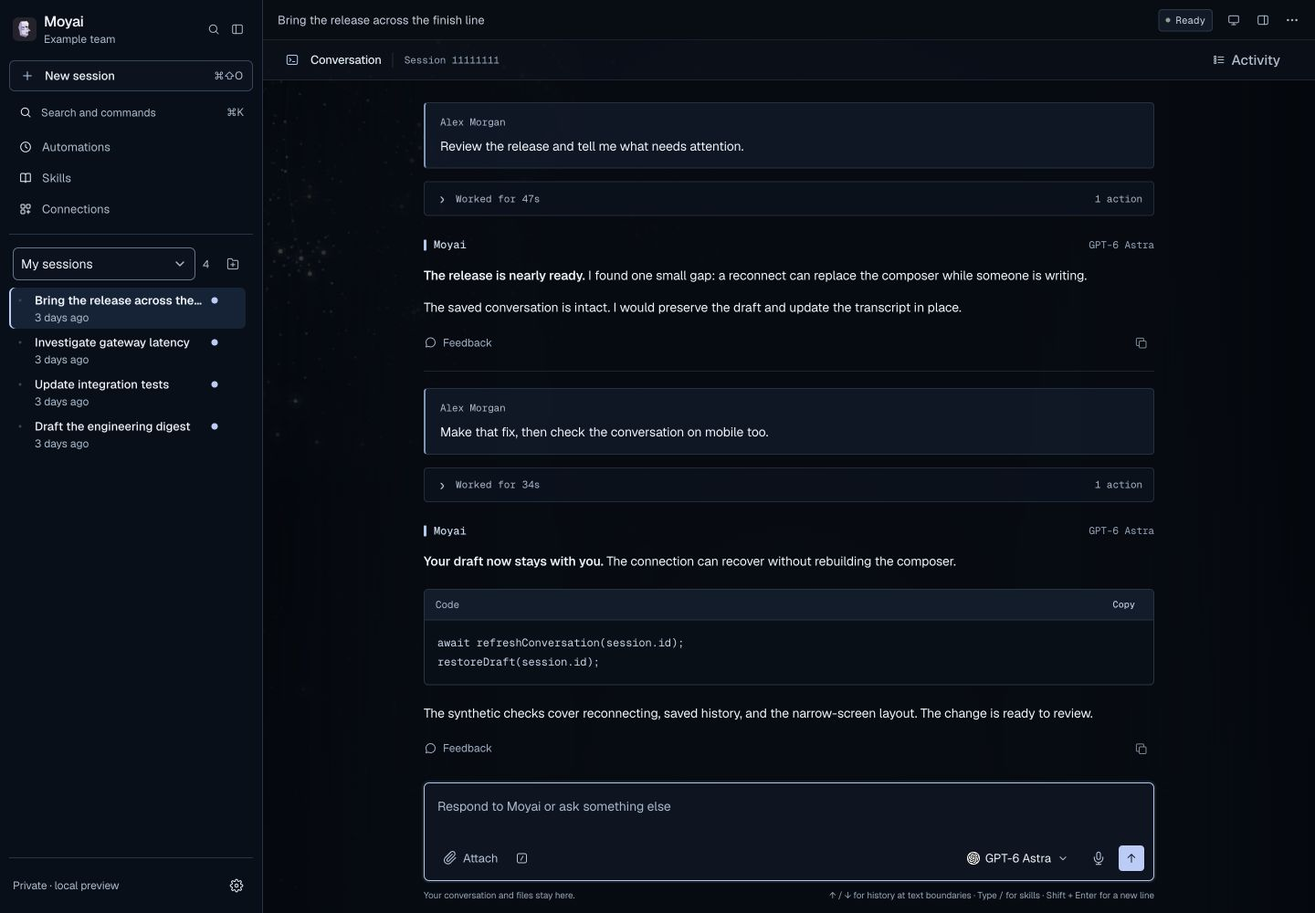
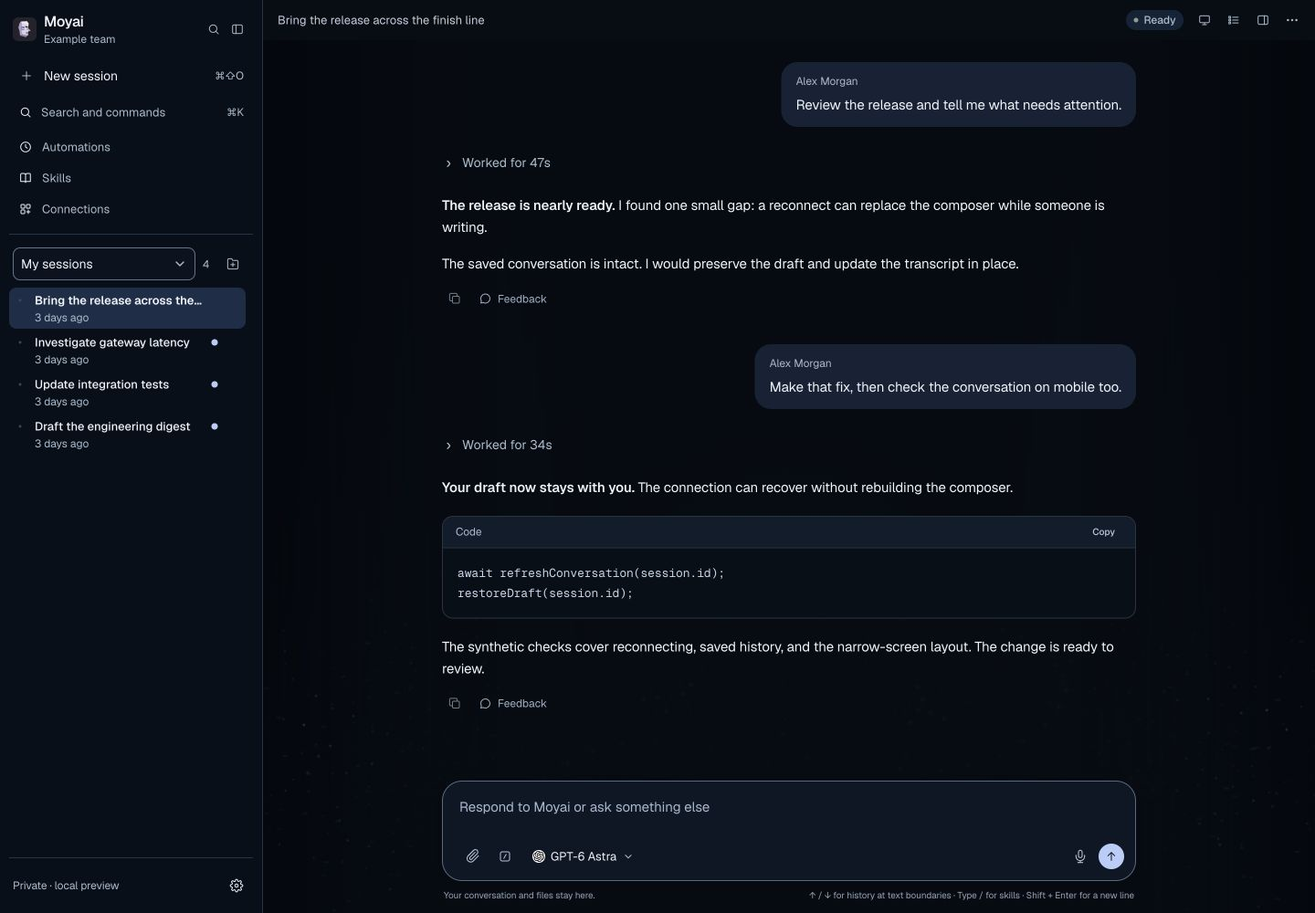
Use Codex-style chat components with the Lens space palette

diff --git a/app/static/branding.css b/app/static/branding.css
@@ -259,92 +259,75 @@ button:hover { background: var(--soft); }
 .connected-note { justify-content: center; color: #a9bdce; font-size: 11px; gap: 8px; }
 .connected-dot { background: #b4d8cb; box-shadow: 0 0 8px #b4d8cb44; }
 
-/* Developer workspace: constellation at the periphery, compact working surfaces. */
-.chat-view .topbar { background: #070d15; box-shadow: inset 0 -1px #a8cbe31c; }
+/* Codex-style conversation primitives, with the Lens space palette. */
+.chat-view .topbar { background: #070d15; box-shadow: none; }
 .chat-view .topbar #page-title { color: #c3d0df; font-size: 13px; letter-spacing: 0; }
-.chat-view #run-status .status {
-  padding: 3px 7px; border: 1px solid #a8cbe32c; border-radius: 4px;
-  background: #0e1a27; color: #c8d8e7; font: 11px/1.5 var(--mono);
-}
+.chat-view #run-status .status { color: var(--muted); font-size: 12px; }
 .chat-view .chat-layout {
   position: relative; isolation: isolate;
   background: radial-gradient(ellipse at 50% 95%, #14213b55, transparent 75%), #03070c;
 }
 .conversation-space-field {
   position: absolute; inset: 0; width: 100%; height: 100%; z-index: 0;
-  pointer-events: none; opacity: .26;
+  pointer-events: none; opacity: .3;
 }
 .chat-view .chat-panel { z-index: 1; isolation: isolate; background: transparent; }
 .chat-view .chat-panel::before {
-  content: ''; position: absolute; inset: 44px 0 0; z-index: -1; pointer-events: none;
+  content: ''; position: absolute; inset: 0; z-index: -1; pointer-events: none;
   background: linear-gradient(90deg, transparent, #060b12d9 16%, #060b12ed 30%, #060b12ed 70%, #060b12d9 84%, transparent);
 }
-.conversation-toolbar {
-  display: flex; align-items: center; justify-content: space-between; gap: 12px; flex: none;
-  min-height: 44px; padding: 6px 24px; border-bottom: 1px solid #a8cbe321;
-  background: #09111bcc;
-}
-.conversation-location, .conversation-tools { display: flex; align-items: center; gap: 12px; min-width: 0; }
-.conversation-location h2 { margin: 0; color: #dbe6f2; font-size: 13px; font-weight: 500; white-space: nowrap; }
-#conversation-hub { display: flex; align-items: center; flex: none; color: #a9c5e4; }
-.conversation-reference { min-width: 0; padding-left: 12px; border-left: 1px solid #a8cbe32b; color: #96acc2; font: 11px/1.5 var(--mono); overflow: hidden; text-overflow: ellipsis; white-space: nowrap; }
-.conversation-tools { gap: 4px; flex: none; }
-.conversation-tools .details-toggle { display: inline-flex; align-items: center; justify-content: center; gap: 6px; min-height: 28px; padding: 4px 8px !important; border-radius: 4px; color: #aebed0; font-size: 12px; }
-.conversation-tools .details-toggle:hover, .conversation-tools .details-toggle[aria-expanded="true"] { color: #e4edf8; background: #1b2a3d; }
-.chat-view .conversation { padding: 24px 24px 12px; }
-.chat-view .conversation-inner { max-width: 800px; }
+.chat-view .conversation { padding: 24px 24px 16px; }
+.chat-view .conversation-inner { max-width: 760px; }
 .message-content, .markdown p, .markdown li, .chat-message.user .message-content { color: var(--text); }
-.chat-view .message-content, .chat-view .markdown p, .chat-view .markdown li { font-size: 14px; line-height: 1.65; font-weight: 400; }
-.chat-view .markdown p { margin-block: 0 12px; }
+.chat-view .message-content, .chat-view .markdown p, .chat-view .markdown li { font-size: 15px; line-height: 1.6; font-weight: 400; }
+.chat-view .markdown p { margin-block: 0 16px; }
 .chat-view .markdown strong { font-weight: 570; }
 .chat-view .chat-message.user {
-  width: 100%; max-width: 100%; margin: 0 0 14px; padding: 12px 16px;
-  border: 1px solid #a8cbe325; border-left: 2px solid #7a96b5; border-radius: 4px;
-  background: #101b2acc; box-shadow: none;
+  width: fit-content; max-width: 80%; margin: 0 0 24px auto; padding: 12px 16px;
+  border: 0; border-radius: 18px; background: #152236; box-shadow: none;
 }
-.chat-view .chat-message.user .message-content { font-size: 14px; line-height: 1.65; }
-.chat-view .chat-message.user .message-label { color: #a9bacd; font: 11px/1.6 var(--mono); margin-bottom: 6px; }
-.chat-view .chat-message.assistant { margin: 0 0 18px; padding: 4px 0 16px; border-bottom: 1px solid #a8cbe321; }
-.chat-view .chat-message.assistant > .message-label { display: flex; gap: 8px; color: #cbdcee; font: 12px/1.6 var(--mono); font-weight: 500; margin-bottom: 12px; }
-.chat-view .chat-message.assistant > .message-label img { display: none; }
-.chat-view .chat-message.assistant > .message-label::before { content: ''; width: 3px; height: 12px; border-radius: 1px; background: #aecaf0; }
-.chat-view .chat-message.assistant > .message-label small { color: #92a6bc; font: 11px/1.6 var(--mono); }
-.chat-view .chat-message.response-error > .message-label,
+.chat-view .chat-message.user .message-content { font-size: 15px; line-height: 1.6; }
+.chat-view .chat-message.user .message-label { color: #a9bacd; font: 12px/1.5 Geist, sans-serif; margin-bottom: 5px; }
+.chat-view .chat-message.assistant { margin: 0 0 32px; padding: 0 0 4px; border: 0; }
+.chat-view .chat-message.assistant > .message-label { display: none; }
+.chat-view .chat-message.response-error { padding: 12px 16px 8px; border-left: 2px solid var(--ui-danger); border-radius: 8px; }
+.chat-view .chat-message.response-error > .message-label { display: flex; color: var(--ui-danger); }
 .chat-view .chat-message.response-error > .message-label small { color: var(--ui-danger); }
-.chat-view .chat-message.response-error > .message-label::before { background: var(--ui-danger); }
-.chat-view .chat-message .feedback-message { background: transparent; border: 0; border-radius: 4px; padding: 4px 6px; margin-left: -6px; min-height: 28px; color: #9eb1c8; font-size: 12px; font-weight: 400; box-shadow: none; }
-.chat-view .chat-message .feedback-message:hover { background: #122035; color: #dbe9f9; }
-.chat-view .chat-message.assistant:not(:has(.message-actions)) { padding-bottom: 44px; }
-.chat-view .chat-message .copy-message { opacity: .7; bottom: 16px; border-radius: 4px; }
+.chat-view .chat-message .message-actions { margin: 12px 0 0 34px; min-height: 28px; }
+.chat-view .chat-message .feedback-message { background: transparent; border: 0; border-radius: 6px; padding: 4px 6px; min-height: 28px; height: 28px; color: #9eb1c8; font-size: 12px; font-weight: 400; box-shadow: none; }
+.chat-view .chat-message .feedback-message:hover { background: var(--soft); color: var(--text); }
+.chat-view .chat-message.assistant:not(:has(.message-actions)) { padding-bottom: 40px; }
+.chat-view .chat-message .copy-message { left: 0; right: auto; bottom: 4px; border-radius: 6px; opacity: .65; }
+.chat-view .chat-message.response-error .copy-message { left: 16px; bottom: 8px; }
 .chat-view .chat-message:hover .copy-message, .chat-view .chat-message:focus-within .copy-message { opacity: 1; }
 .message-label, .work-title, .work-heading, .work-action-detail pre { color: var(--muted); }
-.chat-view .turn-work { margin: 0 0 18px; border: 1px solid #a8cbe325; border-radius: 4px; background: #0a131fcc; }
-.chat-view .work-heading { width: 100%; min-height: 34px; padding: 7px 12px; border-radius: 4px; }
-.chat-view .work-heading:hover { background: #132034; }
-.chat-view .work-title { color: #aabbd0; font: 11px/1.6 var(--mono); letter-spacing: 0; }
-.chat-view .work-elapsed { font: 11px/1.6 var(--mono); }
-.chat-view .work-count { display: inline; margin-left: auto; color: #a6b8cb; font: 11px/1.6 var(--mono); }
-.chat-view .work-body { margin: 0 12px 10px; border-color: #91b5d83d; }
-.chat-view .work-action summary { border-radius: 3px; }
+.chat-view .turn-work { margin: 0 0 20px; border: 0; border-radius: 0; background: transparent; }
+.chat-view .work-heading { width: auto; min-height: 28px; padding: 4px 0; border-radius: 6px; }
+.chat-view .work-title { color: var(--muted); font: 14px/1.5 Geist, sans-serif; letter-spacing: 0; }
+.chat-view .work-elapsed { font: 13px/1.5 Geist, sans-serif; }
+.chat-view .work-body { margin: 4px 0 0 6px; border-color: #91b5d83d; }
+.chat-view .work-action summary { border-radius: 6px; }
 .chat-view .work-action summary:hover, .chat-view .work-action details[open] { background: #101c2b; }
 .chat-view .work-action-detail pre { font-size: 12px; }
 .work-heading:hover .work-title, .work-heading:hover .work-chevron { color: var(--text); }
-.chat-view .chat-bottom { position: relative; z-index: 2; max-width: 848px; padding: 12px 24px 4px; background: linear-gradient(180deg, #060b1200, #060b12 24%); }
-.chat-view .reply-composer { background: #0c1522f5; border: 1px solid #657b96; border-radius: 6px; box-shadow: none; }
-.chat-view .reply-composer:focus-within { border-color: #abc7ee; box-shadow: 0 0 0 2px #a8cbe31c; }
-.chat-view .reply-composer textarea, .chat-view .reply-composer .skill-editor-input { min-height: 64px; padding: 14px 14px 8px; font-size: 14px; line-height: 1.6; }
-.chat-view .reply-composer .skill-editor-input[data-empty="true"]::before { inset: 14px 14px auto; }
-.chat-view .reply-composer .composer-toolbar { padding: 4px 10px 10px; }
-.chat-view .reply-composer .send-button, .chat-view .reply-composer .stop-button { border-radius: 4px; box-shadow: none; }
-.chat-view .reply-composer .model-picker { border-radius: 4px; }
-.chat-view .composer-caption { color: #94a6ba; padding: 8px 0; font-size: 10px; }
-.chat-view .jump-latest { background: #111e2e; border-color: #657b96; border-radius: 4px; color: #cbdced; font: 11px/1.6 var(--mono); box-shadow: 0 4px 12px #0004; }
-.chat-view .message-queue { border-radius: 6px 6px 0 0; }
-.chat-view .code-block { border: 1px solid #a8cbe333; border-radius: 5px; box-shadow: none; background: #080f18; }
-.chat-view .code-header { min-height: 30px; padding: 5px 12px; border-bottom: 1px solid #a8cbe321; background: #101c2c; color: #a9bcd0; font: 11px/1.6 var(--mono); }
-.chat-view .code-block pre { padding: 14px; }
-.chat-view .code-block pre code { display: block; padding: 0; border: 0; border-radius: 0; background: transparent; color: #c6d7eb; font: 12px/1.75 var(--mono); }
-.chat-view .markdown :not(pre) > code { padding: 2px 4px; border: 1px solid #a8cbe31f; border-radius: 3px; background: #152235; font-size: .86em; }
+.chat-view .chat-bottom { position: relative; z-index: 2; max-width: 808px; padding: 12px 24px 4px; background: linear-gradient(180deg, #060b1200, #060b12 24%); }
+.chat-view .reply-composer { background: #0d1726f5; border: 1px solid #566b84; border-radius: 22px; box-shadow: 0 4px 20px #0002; }
+.chat-view .reply-composer:focus-within { border-color: #8ea8cd; box-shadow: 0 0 0 1px #a8cbe326; }
+.chat-view .reply-composer textarea, .chat-view .reply-composer .skill-editor-input { min-height: 64px; padding: 16px 18px 8px; font-size: 15px; line-height: 1.6; }
+.chat-view .reply-composer .skill-editor-input[data-empty="true"]::before { inset: 16px 18px auto; }
+.chat-view .reply-composer .composer-toolbar { padding: 4px 12px 12px; gap: 6px; }
+.chat-view .reply-composer .attach-button { width: 30px; padding: 0 !important; justify-content: center; }
+.chat-view .reply-composer .attach-button span { display: none; }
+.chat-view .reply-composer .model-picker { margin-left: 2px; margin-right: auto; border-radius: 8px; }
+.chat-view .reply-composer .send-button, .chat-view .reply-composer .stop-button { width: 28px; height: 28px; flex-basis: 28px; margin-left: 0; border-radius: 50%; box-shadow: none; }
+.chat-view .composer-caption { color: #94a6ba; padding: 8px 2px; font-size: 10px; }
+.chat-view .jump-latest { background: #111e2e; border-color: #566b84; border-radius: 50px; color: #cbdced; font: 12px/1.5 Geist, sans-serif; box-shadow: 0 4px 12px #0004; }
+.chat-view .message-queue { border-radius: 18px 18px 0 0; }
+.chat-view .code-block { border: 1px solid #a8cbe333; border-radius: 12px; box-shadow: none; background: #080f18; }
+.chat-view .code-header { min-height: 34px; padding: 6px 14px; border-bottom: 1px solid #a8cbe321; background: #101c2c; color: #a9bcd0; font: 12px/1.5 Geist, sans-serif; }
+.chat-view .code-block pre { padding: 16px; }
+.chat-view .code-block pre code { display: block; padding: 0; border: 0; border-radius: 0; background: transparent; color: #c6d7eb; font: 13px/1.7 var(--mono); }
+.chat-view .markdown :not(pre) > code { padding: 2px 4px; border: 1px solid #a8cbe31f; border-radius: 4px; background: #152235; font-size: .86em; }
 .chat-working { border-color: var(--line); }
 .goal-heading strong, .goal-objective, .approval h3 { color: var(--text); }
 .markdown code { background: #17263b; color: #c8d7fa; }
@@ -416,16 +399,11 @@ button:hover { background: var(--soft); }
   .conversation-space-field { opacity: .2; }
 }
 @media (max-width: 600px) {
-  .conversation-toolbar { min-height: 44px; padding: 4px 12px; gap: 8px; }
-  .conversation-location { gap: 8px; }
-  .conversation-reference { display: none; }
-  .conversation-tools .details-toggle { min-height: 36px; padding-inline: 8px !important; }
-  .conversation-tools .details-toggle span { display: inline; }
-  .chat-view .conversation { padding: 16px 12px 8px; }
-  .chat-view .chat-message.user { max-width: 100%; padding: 10px 12px; }
-  .chat-view .chat-message.assistant > .message-label { flex-wrap: wrap; }
-  .chat-view .chat-message.assistant > .message-label small { overflow-wrap: anywhere; }
+  .chat-view .conversation { padding: 20px 16px 8px; }
+  .chat-view .chat-message.user { max-width: 90%; padding: 10px 14px; }
+  .chat-view .chat-message.response-error > .message-label { flex-wrap: wrap; }
   .chat-view .reply-composer textarea, .chat-view .reply-composer .skill-editor-input { font-size: 16px; }
+  .chat-view .reply-composer .composer-toolbar { gap: 4px; padding-inline: 10px; }
   .chat-view .chat-bottom { padding: 8px 10px 4px; }
 }
 @media (max-height: 600px) {

diff --git a/app/static/app.js b/app/static/app.js
@@ -514,11 +514,11 @@ function renderChat(run){
   const id=run.id;
   state.activityHistoryLimit=5;
   const icon=(name,size=17)=>globalThis.MoyaiIcon?.(name,size)||'';
-  MoyaiUI.render($('#header-actions'), `${(run.parent_run_id||run.side_chat_of)?`<button class="quiet parent-session-link" data-open-parent="${esc(run.parent_run_id||run.side_chat_of)}" title="Open parent session">← Parent session</button>`:''}<span id="run-status"></span>${run.mode==='modal'?`<button id="computer-button" class="quiet details-toggle header-icon" aria-label="Computer" title="Computer" aria-controls="workspace-panel">${icon('monitor')}</button>`:''}<button id="pull-requests-button" class="quiet details-toggle header-icon" aria-label="Pull requests" title="Pull requests" aria-controls="workspace-panel" hidden>${icon('pull')}</button><button id="subagents-button" class="quiet details-toggle header-icon" aria-label="Subagents" title="Subagents" aria-controls="workspace-panel" hidden>${icon('participants')}</button><button id="workspace-panel-toggle" class="quiet details-toggle header-icon" aria-label="Show workspace panel" title="Workspace panel" aria-controls="workspace-panel" aria-expanded="false">${icon('panel')}</button>`);
-  MoyaiUI.render($('#content'), `<div class="chat-layout"><canvas id="conversation-space-field" class="conversation-space-field" aria-hidden="true"></canvas><section class="chat-panel"><header class="conversation-toolbar"><div class="conversation-location"><span id="conversation-hub" aria-hidden="true">${icon('terminal',16)}</span><h2>Conversation</h2><span class="conversation-reference" title="${esc(sessionRepository(run)||id)}">${esc(sessionRepository(run)||`Session ${id.slice(0,8)}`)}</span></div><div class="conversation-tools"><button id="files-button" class="quiet details-toggle" aria-controls="workspace-panel" hidden>Files</button><button id="toggle-details" class="quiet details-toggle" aria-label="Activity" aria-expanded="false" aria-controls="workspace-panel">${icon('list',14)}<span>Activity</span></button></div></header><div class="conversation" id="conversation" role="log" aria-label="Conversation" aria-live="polite"></div><button id="jump-latest" class="jump-latest" hidden>↓ Latest message</button><div class="chat-bottom"><div id="approvals"></div><div id="pr-write-access"></div><div class="chat-working" id="chat-working" role="status"></div><section id="message-queue" class="message-queue" aria-label="Queued messages" hidden></section><form id="message-form" class="composer reply-composer"><label class="sr-only" for="followup">Message Moyai</label><textarea id="followup" maxlength="16000" required rows="1" placeholder="Respond to Moyai or ask something else"></textarea><div class="composer-toolbar"><button type="button" class="quiet skill-picker-button" data-skill-picker="followup" aria-label="Choose a skill" title="Skills · or type /">${icon('slash',16)}</button>${run.mode==='demo'?'<span class="composer-model">Demo session</span>':modelPicker('chat-model',state.modelDrafts[id]||run.model||state.config.model,false,run.harness)}<span id="connection-state" class="connection-notice" hidden>Reconnecting…</span><button id="stop-response" class="stop-button" type="button" aria-label="Stop response" title="Stop response"><span aria-hidden="true">■</span></button><button type="submit" class="send-button" aria-label="Send message" title="Send message">${icon('up',18)}</button><button type="submit" data-send-now hidden>Send now</button></div></form><div class="composer-caption"><span id="queue-note">Your conversation and files stay here.</span><span>↑ / ↓ for history at text boundaries · Type / for skills · Shift + Enter for a new line</span></div></div></section>
+  MoyaiUI.render($('#header-actions'), `${(run.parent_run_id||run.side_chat_of)?`<button class="quiet parent-session-link" data-open-parent="${esc(run.parent_run_id||run.side_chat_of)}" title="Open parent session">← Parent session</button>`:''}<span id="run-status"></span>${run.mode==='modal'?`<button id="computer-button" class="quiet details-toggle header-icon" aria-label="Computer" title="Computer" aria-controls="workspace-panel">${icon('monitor')}</button>`:''}<button id="pull-requests-button" class="quiet details-toggle header-icon" aria-label="Pull requests" title="Pull requests" aria-controls="workspace-panel" hidden>${icon('pull')}</button><button id="subagents-button" class="quiet details-toggle header-icon" aria-label="Subagents" title="Subagents" aria-controls="workspace-panel" hidden>${icon('participants')}</button><button id="files-button" class="quiet details-toggle" aria-controls="workspace-panel" hidden>Files</button><button id="toggle-details" class="quiet details-toggle header-icon" aria-label="Activity" title="Activity" aria-expanded="false" aria-controls="workspace-panel">${icon('list')}</button><button id="workspace-panel-toggle" class="quiet details-toggle header-icon" aria-label="Show workspace panel" title="Workspace panel" aria-controls="workspace-panel" aria-expanded="false">${icon('panel')}</button>`);
+  MoyaiUI.render($('#content'), `<div class="chat-layout"><canvas id="conversation-space-field" class="conversation-space-field" aria-hidden="true"></canvas><section class="chat-panel"><div class="conversation" id="conversation" role="log" aria-label="Conversation" aria-live="polite"></div><button id="jump-latest" class="jump-latest" hidden>↓ Latest message</button><div class="chat-bottom"><div id="approvals"></div><div id="pr-write-access"></div><div class="chat-working" id="chat-working" role="status"></div><section id="message-queue" class="message-queue" aria-label="Queued messages" hidden></section><form id="message-form" class="composer reply-composer"><label class="sr-only" for="followup">Message Moyai</label><textarea id="followup" maxlength="16000" required rows="1" placeholder="Respond to Moyai or ask something else"></textarea><div class="composer-toolbar"><button type="button" class="quiet skill-picker-button" data-skill-picker="followup" aria-label="Choose a skill" title="Skills · or type /">${icon('slash',16)}</button>${run.mode==='demo'?'<span class="composer-model">Demo session</span>':modelPicker('chat-model',state.modelDrafts[id]||run.model||state.config.model,false,run.harness)}<span id="connection-state" class="connection-notice" hidden>Reconnecting…</span><button id="stop-response" class="stop-button" type="button" aria-label="Stop response" title="Stop response"><span aria-hidden="true">■</span></button><button type="submit" class="send-button" aria-label="Send message" title="Send message">${icon('up',18)}</button><button type="submit" data-send-now hidden>Send now</button></div></form><div class="composer-caption"><span id="queue-note">Your conversation and files stay here.</span><span>↑ / ↓ for history at text boundaries · Type / for skills · Shift + Enter for a new line</span></div></div></section>
   <aside class="session-side" id="session-details" aria-label="Session details" hidden><div class="details-heading"><h2>Session activity</h2><button id="close-details" class="icon-button" aria-label="Close session details">×</button></div><div class="session-facts">${run.owner?`<div class="detail-row"><span>Started by</span><span>${esc(run.owner.email||run.owner.name)}</span></div>`:''}${run.project_environment?.name?`<div class="detail-row"><span>Project environment</span><span>${esc(run.project_environment.name)} · ${esc(run.project_environment.commit_sha.slice(0,8))}</span></div>`:''}<div class="detail-row"><span>Connected apps</span><span>${run.plugins.length?run.plugins.map(x=>providerNames[x]).join(', '):'None selected'}</span></div><div class="detail-row"><span>Workspace</span><span id="saved-workspace"></span></div><div id="artifact-area"></div></div><div id="slack-context"></div><div id="agent-details"></div><section class="activity-panel"><h3>Progress</h3><div class="timeline" id="timeline">${run.events.filter(e=>!['chat','result'].includes(e.kind)).map(eventHTML).join('')}</div></section></aside></div>`);
   state.spaceCleanup?.();
-  state.spaceCleanup=globalThis.MoyaiSpace?.mount($('#conversation-space-field'),{anchor:$('#conversation-hub'),animate:false});
+  state.spaceCleanup=globalThis.MoyaiSpace?.mount($('#conversation-space-field'),{animate:false});
   bindSessionHeaderActions(run);
   workspacePanel=MoyaiPanel.create({run,layout:$('.chat-layout'),api,computer,markdown:renderMarkdown,escape:esc,size:fileSize,titleFor:sessionTitle,matchesSession:sessionMatches,statusFor:sessionStatus,user:state.userId||'shared:local:admin',models:harnessModels(run.harness),toast,onActivity:loadAllActivity,onCreated:()=>refreshRuns().catch(showError)});
   $('#workspace-panel-toggle').addEventListener('click',()=>workspacePanel.toggle());

diff --git a/app/static/polish.css b/app/static/polish.css
@@ -184,16 +184,17 @@ aside.rail { border-right: 1px solid var(--line); padding: 10px; }
 .rail-tools { display: flex; gap: 2px; }
 #close-sidebar { display: grid; }
 .new-task, .nav-button { display: flex; align-items: center; gap: 10px; width: 100%; border: 0; background: transparent; padding: 7px 8px; border-radius: 6px; color: var(--text); font-size: 14px; font-weight: 400; text-align: left; }
-.rail .new-task { min-height: 34px; margin-top: 2px; padding: 6px 10px; border: 1px solid var(--border); border-radius: 6px; background: var(--surface); color: var(--text); font-size: 13px; font-weight: 500; }
-.rail .new-task:hover { background: var(--soft); border-color: var(--muted); }
-.rail > .nav-button, .rail .rail-links .nav-button { min-height: 34px; padding: 6px 10px; font-size: 13px; }
-.rail #command-menu { margin-top: 6px; font-size: 12px; }
+.rail .new-task { min-height: 34px; margin-top: 2px; padding: 6px 10px; border: 0; border-radius: 8px; background: transparent; color: var(--text); font-size: 14px; font-weight: 400; }
+.rail .new-task .nav-icon { color: var(--muted); }
+.rail .new-task:hover { background: var(--soft); }
+.rail > .nav-button, .rail .rail-links .nav-button { min-height: 34px; padding: 6px 10px; border-radius: 8px; font-size: 13px; }
+.rail #command-menu { margin-top: 6px; font-size: 13px; }
 .new-task:hover, .nav-button:hover { background: var(--soft); }
 .nav-button.active { background: var(--soft); color: var(--text); }
 .nav-icon { color: var(--text); display: grid; place-items: center; width: 18px; }
-.rail .new-task kbd { margin-left: auto; font: 12px var(--mono); color: var(--muted); opacity: 1; }
-.new-task:hover kbd, .new-task:focus-visible kbd { opacity: 1; }
-.session-search { display: flex; flex-shrink: 0; margin: 2px 6px 8px; padding: 8px; gap: 10px; border-radius: 6px; color: var(--text); background: var(--surface); box-shadow: inset 0 0 0 1px var(--border); }
+.rail .new-task kbd { margin-left: auto; font: 12px var(--mono); color: var(--muted); opacity: 0; }
+.rail .new-task:hover kbd, .rail .new-task:focus-visible kbd { opacity: 1; }
+.session-search { display: flex; flex-shrink: 0; margin: 2px 6px 8px; padding: 8px; gap: 10px; border-radius: 8px; color: var(--text); background: var(--surface); box-shadow: inset 0 0 0 1px var(--border); }
 .session-search[hidden] { display: none; }
 .session-search input { font-size: 14px; padding: 0; border-radius: 0; }
 .session-search-snippet { display: block; margin-top: 4px; color: var(--muted); font-size: 12px; line-height: 1.5; white-space: normal; overflow-wrap: anywhere; }
@@ -201,16 +202,16 @@ aside.rail { border-right: 1px solid var(--line); padding: 10px; }
 .session-search:focus-within input { box-shadow: none; }
 .rail .rail-links { padding: 0 0 10px; border-bottom: 1px solid var(--line); margin: 4px 0 0; }
 .rail .sessions-label { display: flex; align-items: center; padding: 14px 4px 8px; gap: 8px; font-size: 14px; font-weight: 500; color: var(--text); }
-.rail .sessions-label [data-styled] [data-slot="select-trigger"] { border-radius: 6px; }
+.rail .sessions-label [data-styled] [data-slot="select-trigger"] { border-radius: 8px; }
 .sessions-label #task-count { margin-left: 0; color: var(--muted); font-size: 12px; }
 .sessions-label .folder-add { margin-left: auto; color: var(--muted); }
 .session-list { padding-bottom: 8px; scrollbar-color: var(--border) transparent; }
 /* Reserve the action column at every depth so status indicators share one edge. */
-.rail .parent-session { display: grid; grid-template-columns: 24px minmax(0, 1fr) 24px; align-items: start; border-radius: 6px; }
+.rail .parent-session { display: grid; grid-template-columns: 24px minmax(0, 1fr) 24px; align-items: start; border-radius: 8px; }
 .parent-session:hover { background: var(--soft); }
-.rail .parent-session:has(.selected), .rail .parent-session:has(.selected):hover { background: var(--soft); box-shadow: inset 2px 0 var(--accent); }
+.rail .parent-session:has(.selected), .rail .parent-session:has(.selected):hover { background: var(--brand-selected); }
 .session-link, .session-link:hover, .session-link.selected { background: transparent; }
-.rail .session-link { min-height: 44px; padding-block: 4px; border-radius: 6px; }
+.rail .session-link { min-height: 44px; padding-block: 4px; border-radius: 8px; }
 .rail .session-link-title { font-size: 13px; color: var(--text); line-height: 20px; }
 .rail .session-link small, .rail .session-link-meta { font-size: 12px; color: var(--muted); margin-top: 1px; line-height: 16px; }
 .rail .session-link-context { font-size: 12px; }
@@ -227,10 +228,10 @@ aside.rail { border-right: 1px solid var(--line); padding: 10px; }
 .session-move { display: grid; place-items: center; margin-top: 4px; width: 24px; min-width: 24px; height: 24px; color: var(--muted); }
 .rail .agent-disclosure, .rail .agent-disclosure-space, .rail .session-move { margin-top: 2px; }
 .child-sessions { margin-left: 24px; border-left-color: var(--line); }
-.rail .folder-toggle { font-size: 12px; color: var(--muted); }
+.rail .folder-toggle { border-radius: 8px; font-size: 13px; color: var(--muted); }
 .rail .folder-count { font: 12px var(--mono); }
-.rail .unfiled-heading { font-size: 12px; color: var(--muted); margin: 8px 8px 4px; }
-.rail .session-section-heading { min-height: 32px; border-radius: 6px; font-size: 12px; font-weight: 500; }
+.rail .unfiled-heading { font-size: 13px; color: var(--muted); margin: 8px 8px 4px; }
+.rail .session-section-heading { min-height: 32px; border-radius: 8px; font-size: 13px; font-weight: 400; }
 .rail .session-personal-section + .session-personal-section { margin-top: 10px; padding-top: 8px; border-top: 1px solid var(--line); }
 .rail .rail-foot { padding: 10px 4px 0; }
 .rail .rail-foot .rail-identity { font-size: 12px; }

diff --git a/app/static/index.html b/app/static/index.html
@@ -6,7 +6,7 @@
   <title>Moyai</title><link rel="icon" href="/static/favicon.svg?v=moyai-train-1"><link rel="stylesheet" href="/static/style.css?v=deep-space-1">
   <link rel="preload" href="/static/fonts/geist-variable.woff2" as="font" type="font/woff2" crossorigin>
   <meta name="theme-color" content="#03070c">
-  <script src="/static/space-field.js?v=conversation-workbench-2" defer></script>
+  <script src="/static/space-field.js?v=conversation-codex-3" defer></script>
   <script src="/static/ui/moyai-ui.js?v=deep-space-1" defer></script>
   <script src="/static/icons.js?v=shadcn-1" defer></script><script src="/static/vendor/marked.js" defer></script><script src="/static/vendor/purify.js" defer></script>
   <script src="/static/goal-status.js?v=shadcn-1" defer></script><script src="/static/provider-logos.js?v=2" defer></script>
@@ -21,11 +21,11 @@
   <script src="/static/skill-icons.js?v=1" defer></script>
   <script src="/static/skill-editor.js?v=skill-history-2" defer></script>
   <script src="/static/saved-files.js?v=shadcn-tools-1" defer></script><script src="/static/markdown.js?v=source-links-1" defer></script><script src="/static/infrastructure.js?v=settings-system-1" defer></script><script src="/static/spend-prs.js?v=recent-navigation-1" defer></script><script src="/static/spend-analytics.js?v=recent-navigation-3" defer></script><script src="/static/spend.js?v=recent-navigation-2" defer></script><script src="/static/credentials.js?v=dialog-scope-1" defer></script><script src="/static/skills.js?v=recent-navigation-1" defer></script><script src="/static/message-history.js?v=1" defer></script><script src="/static/skill-composer.js?v=skill-history-2" defer></script><script src="/static/attachment-transport.js?v=attachments-2" defer></script><script src="/static/audio-recorder.js?v=shadcn-lifecycle-1" defer></script><script src="/static/attachments.js?v=shadcn-deletion-1" defer></script><script src="/static/activity.js?v=safe-error-diagnostics-3" defer></script><script src="/static/message-queue.js?v=skill-history-2" defer></script><script src="/static/session-folders.js?v=session-alignment-1" defer></script><script src="/static/sandbox-settings.js?v=shadcn-lambda-1" defer></script>
-<script src="/static/session-actions.js?v=shadcn-deletion-1" defer></script><script src="/static/regions.js?v=incremental-1" defer></script><script src="/static/command-palette.js?v=1" defer></script><script src="/static/navigation-cache.js?v=1" defer></script><script src="/static/app.js?v=conversation-workbench-2" defer></script>
+<script src="/static/session-actions.js?v=shadcn-deletion-1" defer></script><script src="/static/regions.js?v=incremental-1" defer></script><script src="/static/command-palette.js?v=1" defer></script><script src="/static/navigation-cache.js?v=1" defer></script><script src="/static/app.js?v=conversation-codex-3" defer></script>
   <link rel="stylesheet" href="/static/session-folders.css?v=deep-space-1">
   <link rel="stylesheet" href="/static/session-actions.css?v=deep-space-1">
-  <link rel="stylesheet" href="/static/polish.css?v=conversation-workbench-2">
-  <link rel="stylesheet" href="/static/branding.css?v=conversation-workbench-2">
+  <link rel="stylesheet" href="/static/polish.css?v=conversation-codex-3">
+  <link rel="stylesheet" href="/static/branding.css?v=conversation-codex-3">
   <link rel="stylesheet" href="/static/settings-system.css?v=deep-space-1">
   <link rel="stylesheet" href="/static/ui/moyai-ui.css?v=deep-space-1">
   <link rel="stylesheet" href="/static/command-palette.css?v=deep-space-1">

diff --git a/docs/space-redesign.md b/docs/space-redesign.md
@@ -78,14 +78,20 @@ provider operations were not tested in this visual change.
 
 ## Conversation workspace
 
-The same deterministic field quietly frames conversations as a static backdrop.
-A compact toolbar shows the actual repository or session reference alongside
-Files and Activity. Aligned request rows, tighter transcript spacing, rectangular
-code panels, and visible tool-action counts prioritize the work. The composer
-and shared navigation use restrained borders and compact controls; identity and
-model metadata use Geist Mono. Assistant identity, feedback, and semantic error
-colors remain readable. The canvas stays mounted during transcript updates and
-is released on navigation or when a cached conversation loses access.
+Conversation components follow the Codex app's chat layout, with the Lens navy
+and ice-blue palette applied to those shapes. User messages are compact,
+right-aligned bubbles with sender identity; assistant replies are plain prose.
+Completed work is an unboxed disclosure above the answer. Copy and feedback sit
+together below it, and code blocks use a quiet header and rounded container.
+The rounded composer places attachment, skill, and model controls at the left,
+with microphone and circular send controls at the right. Files and Activity
+remain in the existing top bar. Sidebar actions are quiet rows with a muted
+selected surface.
+
+The deterministic constellation is a static backdrop behind the conversation,
+with a dark veil keeping text legible. Error labels and semantic error colors
+remain visible. The canvas stays mounted during transcript updates and is
+released on navigation or when a cached conversation loses access.
 
 Use `/?fixture=conversation-space#run=11111111111111111111111111111111`
 on the fixture preview for the four-message synthetic conversation below. These

diff --git a/.agents/skills/moyai-ui/SKILL.md b/.agents/skills/moyai-ui/SKILL.md
@@ -7,6 +7,8 @@ description: Build or refine Moyai frontend pages using the repository’s estab
 
 Keep Moyai’s deep-space workspace identity: near-black navy surfaces, icy blue actions, ivory text, thin local Geist typography, and restrained glass panels. The new-session screen uses a deterministic constellation around the Moyai hub; conversation and Settings surfaces stay quiet for sustained work. A new screen should look like a sibling of the existing screens. Use the current implementation and [space redesign gallery](../../../docs/space-redesign.md) as the visual reference; do not start a new aesthetic for a feature.
 
+Chat components follow the Codex app's layout with the space palette applied: right-aligned user bubbles, plain assistant prose, unboxed work disclosures, quiet inline response actions, and a rounded composer. Keep Files and Activity in the existing top bar. Do not add a second conversation masthead, boxed transcript rows, or decorative identity labels.
+
 ## Read the source of the primitive
 
 - `frontend/components/ui`: the shared shadcn/ui components. `frontend/render.tsx` maps the existing escaped feature templates to these components; `frontend/overlays.tsx` supplies shadcn Dialog and Popover. Read [the rendering contract](../../../docs/shadcn-ui.md). Build with `npm run build` after editing component sources and commit the generated `app/static/ui` assets with the source.
